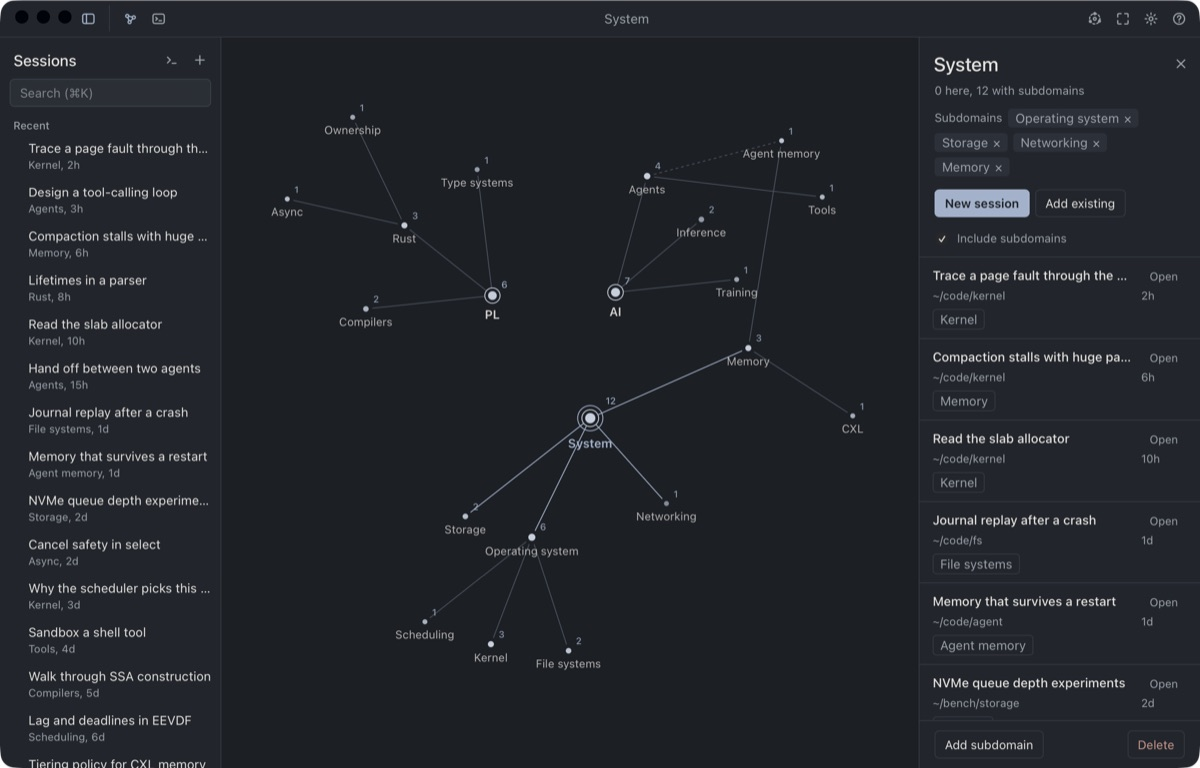
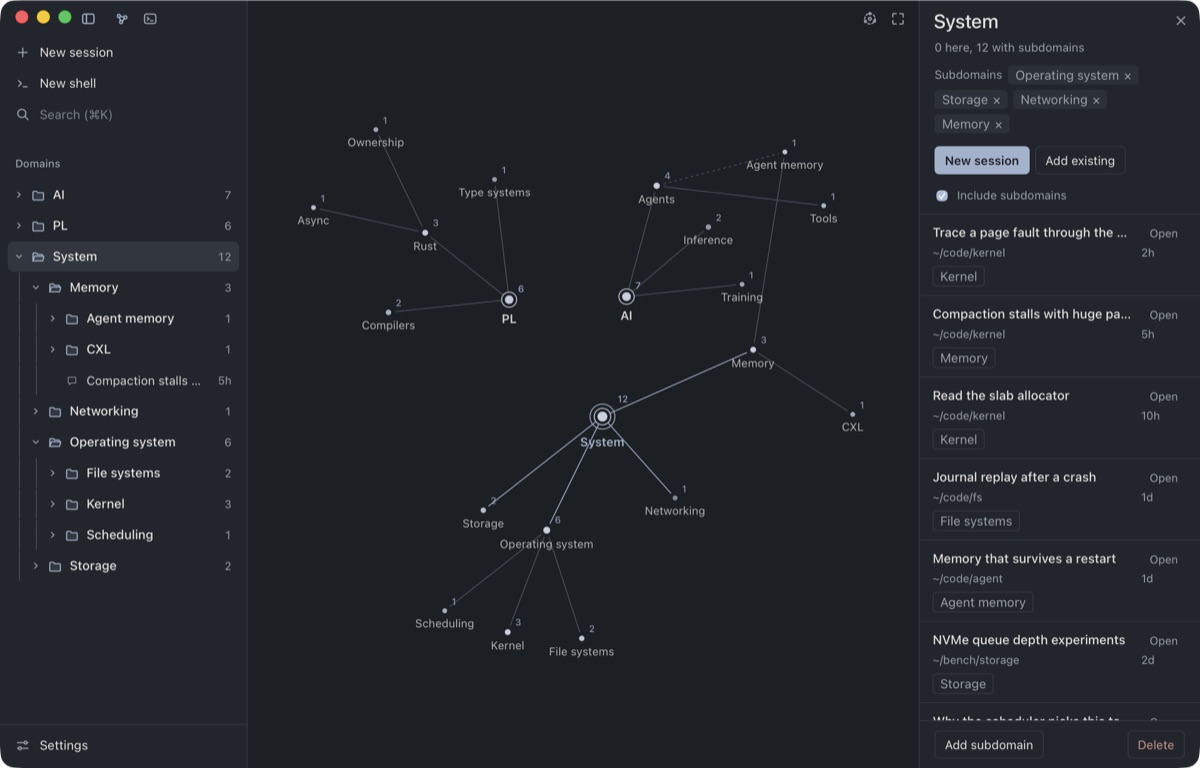
Rewrite the README and tighten the documents

diff --git a/docs/design.md b/docs/design.md
@@ -1,85 +1,82 @@
 # Design
 
-Deck organises Claude Code sessions by domain and runs them in terminal panes. [Architecture](architecture.md) says how it is built.
+Deck sorts Claude Code sessions by domain and runs them in terminal panes. [Architecture](architecture.md) says how it is built.
+
+## Principles
+
+- **The agent owns its sessions.** Deck keeps no copy of a session and adds no chat window. It stores only where each session belongs.
+- **Opt in.** A session appears once it is assigned to a domain, so the map holds only work worth keeping.
+- **One place for each rule.** The core decides everything. The interface sends requests and draws what comes back.
+- **Fit in, don't take over.** Panes run the login shell with its own environment and say they are Deck's own terminal. The look uses installed fonts, follows the system's light and dark, and every shortcut can move.
 
 ## Model
 
 | Record | Content |
 | --- | --- |
-| Domain | A stable ID, a name and a position on the map. |
-| Link | A parent domain and a subdomain. |
-| Assignment | A domain and a session key: the agent's name and the session's own ID. |
+| Domain | A stable ID, a name and a place on the map |
+| Link | A parent domain and a subdomain |
+| Assignment | A domain and a session, by agent and session ID |
 
-- **Sessions** stay with the agent. Deck keeps no copy, and shows a session only once it is assigned.
-- **Root domains** have no parent. There is no single root.
-- **Links** never form a loop. A domain may have several parents.
-- **Assignments.** A session may belong to several domains.
-- **Counts.** A domain counts the distinct sessions in it and in its subdomains.
-- **Deleting a domain** removes its links and assignments. A subdomain left without a parent moves up to the deleted domain's parents. Sessions are never deleted.
-- **Missing sessions.** An assigned session the agent no longer lists is marked missing and can be removed.
+- A domain may have several parents, and links never form a loop. Root domains have no parent, and there is no single root.
+- A session may belong to several domains. A domain counts the distinct sessions in it and its subdomains.
+- Deleting a domain removes its links and assignments, and moves its orphaned subdomains up to its parents. Sessions are never deleted.
+- A session the agent no longer lists is marked missing and can be removed.
 
 ## Window
 
-The map or the terminal fills the window below one top bar. The bar holds the window's own buttons, the session list toggle, the switch between map and terminal, the name of what is in view, the map's tools and Appearance.
+The session list runs down the left, and the map or the terminal fills the rest. As in Claude's and Codex's desktop apps there is no top bar: the window's buttons, the list toggle and the map/terminal switch sit together at the top left. The empty parts of the headers drag the window.
 
 | Part | Content |
 | --- | --- |
-| Map | Domains and their links, with pan and zoom. Size follows the session count, and colour follows recency over three months. The theme draws them. |
-| Domain panel | The selected domain: name, parents, subdomains and sessions. |
-| Session list | Open panes with their state, then recent assigned sessions. Search covers every assigned session. |
-| Terminal | Panes tiled in nested rows and columns. Other open panes keep running out of sight. |
+| Session list | New session, new shell and search; the open panes; then every domain as a folder holding its subdomains and its sessions, newest first. Both parts fold away. Settings sit at the foot. |
+| Map | Domains and links, with pan and zoom. Size follows the session count, colour follows recency over three months. |
+| Domain panel | The selected domain's name, parents, subdomains and sessions. |
+| Terminal | Panes tiled in rows and columns. Panes out of sight keep running. |
 
-- **Resizing.** The session list, the domain panel and the dividers between panes drag by their edges. The list can be hidden. Sizes are remembered.
-- **Top bar.** On macOS the window's three buttons sit at its left, as in other desktop apps. Its empty stretches drag and zoom the window.
+- **Domain tree.** A domain is a folder, empty while it has no session, and a session is a chat mark with its time. A running session shows its state instead. A domain with two parents appears under both. A search unfolds everything and keeps what matches. Folding is remembered.
+- **Sizes.** The list, the panel and the dividers between panes drag by their edges and are remembered.
 
 ## Map
 
-- **Editing.** Add, rename, move, link, unlink and delete domains.
-- **Import.** A folder path given as a name adds the folder and two levels inside it as domains.
-- **Arrange.** Lays the map out around one centre. Root domains gather on a small ring at the core, and each level of subdomains lies on a wider ring, so distance from the middle shows depth. Each root's branch keeps its own slice. Siblings sharing a subdomain sit side by side, and links draw related domains together while each keeps room for its name. The map glides to the new places and fits them on screen. One step undoes it.
-- **Fit.** Shows every domain at once.
-- **Reassigning.** A session dragged from the session list or the panel onto a domain is assigned there too.
+- **Editing.** Add, rename, move, link, unlink and delete domains. Shift-drag links a parent to a subdomain. A folder path given as a name imports the folder and two levels inside it.
+- **Arrange.** Root domains gather at the centre, and each level of subdomains lies on a wider ring, so distance shows depth. Each root keeps its own slice, and linked domains are drawn together. One step undoes it.
+- **Assigning.** A session dropped on a domain, on the map or in the list, joins it.
 
 ## Sessions
 
-- **New session.** Choose a domain, a folder and, optionally, a name. The name goes to Claude Code as `--name` and is written to the session once stored. The session is assigned at once. Claude Code stores a session at its first prompt, so one closed before that is dropped.
-- **Add existing.** A picker over the agent's whole history assigns past sessions to the selected domain.
-- **Titles.** Claude Code's own title, else the first prompt typed, else the first command run, such as `/login`.
-- **Renaming.** A double click on a session's row or its pane's title renames it. Deck writes the record Claude Code's `/rename` writes, so both show the name. A session not yet stored keeps the name until it is.
-- **State.** An open pane is active when it wrote output in the last three seconds, and quiet otherwise. It is ready when it fell quiet after output nobody saw: off screen, or with the window in the background. The terminal button in the top bar then carries a dot. Output in a pane's first five seconds is its own redraw and does not count.
-- **Reopening.** The panes open when Deck stops reopen at the next start, behind the map, tiled as they were. A session no longer listed, or a folder that is gone, is skipped.
+- **New session.** Choose a domain, a folder and an optional name, passed to Claude Code as `--name`. The session is assigned at once. Claude Code stores a session at its first prompt, so one closed before then is dropped.
+- **Add existing.** A picker over the agent's whole history.
+- **Titles.** Claude Code's own title, else the first prompt, else the first command, such as `/login`.
+- **Renaming.** A double click on a row or a pane's title. Deck writes the same record as `/rename`, so both agree.
+- **State.** A pane is active while it writes output and quiet after three seconds. It is ready when it fell quiet with output nobody saw; the terminal button then carries a dot.
+- **Reopening.** Open panes come back at the next start, tiled as they were.
 
 ## Terminal
 
-- **Panes.** A pane runs Claude Code on a session, or the user's login shell. Deck has no chat interface.
-- **Split.** Splitting a pane right or down opens a shell beside or below that pane alone, in the same folder, so panes tile in nested rows and columns. A double click on a divider shares the room evenly.
-- **Carrying.** A session from the list, or a pane by its header, drags into the terminal. Near a pane's edge it splits that pane on that side, and in the middle it takes the pane's place. An outline shows where it will land. Dropped on the map's empty space, a session opens in the terminal.
-- **Shell names.** A double click on a shell's title names it. The name is kept with the open panes.
-- **Closing.** A pane closes when its process exits, and closing a pane stops its process. One that fails within two seconds stays, so its output can be read. The session remains and can be reopened.
-- **Colours.** A terminal takes the theme's sixteen-colour palette for the mode in view, and changes with it. When Claude Code's own theme is of the other kind, light or dark, a pane started then runs its counterpart, for that run only.
-- **Shell.** A pane runs the login shell with the environment its profile sets, as a terminal would, and with a UTF-8 locale when the profile sets none.
-- **Fonts.** Deck bundles no typeface. The terminal uses the theme's monospace or the one chosen in Appearance. A prompt that draws icons needs a font that has them, such as a Nerd Font; the menu marks such fonts Icons. A Nerd Font's Mono variant fits each icon in one cell, and the plain variant lets it run into the space after it.
-- **Other clients.** Deck does not guard against a session being open elsewhere. The agent handles that.
+- **Panes** run Claude Code on a session, or the login shell. Splitting a pane opens a shell beside or below it, in the same folder.
+- **Carrying.** Drag a session or a pane's title into the terminal. Near a pane's edge it splits that pane; in the middle it replaces it.
+- **Closing.** A pane closes when its process exits. One that fails within two seconds stays open, so its output can be read.
+- **Colours.** Panes take the theme's sixteen-colour palette for the mode in view. On a light ground, text too faint to read is darkened, as VS Code does; on a dark ground, programs' colours show exactly. Programs that ask, such as Neovim, are told when Deck turns light or dark. Claude Code runs with the light or dark theme that matches.
+- **Environment.** A pane gets the login shell's environment, a UTF-8 locale if the profile sets none, and `TERM_PROGRAM=NoemaDeck`. It drops the variables of the terminal Deck was started from, which would make programs speak that terminal's dialect.
+- **Fonts.** Deck bundles no typeface. A prompt that draws icons needs a font that has them, such as a Nerd Font; the font menu marks these.
 
-## Appearance
+## Settings
 
-The Appearance sheet (⌘, or the sun in the top bar) changes the look at once, and the store keeps it. Fonts are chosen from menus of those installed, each name drawn in its own face, searchable, with a check by the one in use, as in Claude's settings.
+Settings open with ⌘, or from the foot of the list. A change shows at once, and the store keeps it.
 
-| Choice | Options |
+| Page | Content |
 | --- | --- |
-| Theme | **Noema**, the default, and **Galaxy**. [Themes](themes.md) says how one is made. |
-| Colour mode | Light, dark, or Auto, which follows the system. A theme with one mode keeps to it. |
-| Interface font | The theme's, or any installed family, from a menu. |
-| Terminal font | The theme's, or any installed family whose letters share one width, from a menu, with its size and line height. |
+| Appearance | Theme, colour mode (light, dark or follow the system) and interface font |
+| Terminal | Font, size and line height, with a preview |
+| Shortcuts | Every keyboard shortcut. Click a key, then press the new one. A key in use is refused, and Reset puts one back. |
+| About | Version, source and licence |
 
-- **Noema** takes its colours from the Noema Kit mark: a slate blue accent, paper and mist neutrals, and muted sage, ochre and clay for state. Its type is the system's. Its map is a graph in ink, after the mark's own: a domain is a dot, deeper for recent work and fading to mist over three months, and an empty domain is an open ring. A root domain wears a thin ring. A session running now adds a sage ring. Second-parent links are dashed. Pointing at a domain dims all but it and its neighbours.
-- **Galaxy** draws each domain as a star on a night sky. [Galaxy](../ui/themes/galaxy/README.md) describes it.
-- **Opening.** The page opens in the look of the last run, and then takes what the store holds.
+**Noema**, the default theme, takes its colours from the Noema Kit mark and draws the map as an ink graph: a dot per domain, deeper for recent work, an open ring when empty. **Galaxy** draws domains as stars on a night sky; [its README](../ui/themes/galaxy/README.md) describes it. [Themes](themes.md) says how to make one.
 
 ## Later
 
-- **More agents.** Codex and OpenCode.
-- **Themes from outside the app.**
-- **Domain prompts.** A prompt per domain, inherited by sessions started in its subdomains.
-- **Skills, system load and memory.**
-- **Session links.** Fork, reference and handoff relations.
+- More agents: Codex and OpenCode
+- Themes loaded from outside the app
+- A prompt per domain, inherited by its subdomains
+- Skills, system load and memory per domain
+- Links between sessions: fork, reference and handoff

diff --git a/README.md b/README.md
@@ -1,78 +1,85 @@
 <p align="center">
-  <img src="crates/noema-deck/icons/icon.png" width="128" alt="Noema Deck icon">
+  <img src="crates/noema-deck/icons/icon.png" width="112" alt="">
 </p>
 
 <h1 align="center">Noema Deck</h1>
 
-<p align="center">A desktop workbench that organises Claude Code sessions by domain.</p>
-
-![The map of domains, with the session list on the left and the System domain's panel on the right](docs/images/map.jpg)
-
 <p align="center">
-  <img src="docs/images/dark.jpg" width="49%" alt="The same window in the Noema theme's dark mode">
-  <img src="docs/images/galaxy.jpg" width="49%" alt="The same window in the Galaxy theme, with domains drawn as stars">
+  <b>A map for your Claude Code sessions.</b><br>
+  Sort them by domain, see what you work on, and run each one in a tiled terminal.
 </p>
 
-Deck is the first part of [Noema Kit](https://github.com/noema-kit), a set of tools for building an AI-native personal knowledge system.
+<p align="center">
+  <a href="https://github.com/noema-kit/noema-deck/releases/latest"><img src="https://img.shields.io/github/v/release/noema-kit/noema-deck?label=release" alt="Latest release"></a>
+  <img src="https://img.shields.io/badge/platform-macOS-lightgrey" alt="macOS">
+  <a href="LICENSE"><img src="https://img.shields.io/badge/licence-MIT-blue" alt="MIT licence"></a>
+</p>
 
-## Features
+<p align="center">
+  <a href="https://github.com/noema-kit/noema-deck/releases/latest">Download</a> ·
+  <a href="docs/design.md">Design</a> ·
+  <a href="docs/architecture.md">Architecture</a> ·
+  <a href="docs/themes.md">Themes</a>
+</p>
 
-- **Domains.** Group sessions by domain on a map. A domain can have subdomains and several parents, and a session can belong to several domains.
-- **Original sessions.** Deck manages the sessions Claude Code creates. It stores only assignments and keeps no copy.
-- **Opt-in.** A session appears once it is assigned to a domain. Start one in a domain, or add past ones from the history.
-- **Arrange.** One click lays the map out with root domains at the core and deeper subdomains farther out.
-- **Themes.** A quiet light and dark default in the Noema Kit's colours, and Galaxy, a night sky. Fonts, including the terminal's, are yours to choose.
-- **Terminal.** A session opens in a terminal pane that runs Claude Code. Panes split right or down and tile freely, and a pane can run a plain shell.
-- **Continuity.** Open panes reopen at the next start, tiled as they were, and a session that finished out of sight is marked ready.
-- **Command line.** The same program lists, opens, renames and assigns sessions from a shell.
+<picture>
+  <source media="(prefers-color-scheme: dark)" srcset="docs/images/dark.jpg">
+  <img src="docs/images/light.jpg" alt="Deck with the domain tree on the left, the map of domains in the middle and the System domain's sessions on the right">
+</picture>
 
-## Run
+## Why
 
-Download the macOS app from [Releases](https://github.com/noema-kit/noema-deck/releases). It is not notarised, so open it once, then choose **Open Anyway** in System Settings → Privacy & Security. Claude Code must be installed.
+Claude Code keeps every session, but as one flat history. Deck adds a single idea: **domains**. Put each session in the domains it belongs to, and the map shows what you work on, how the areas connect and where you were busy lately.
 
-To build from source, install Rust 1.95 and Claude Code.
+## Highlights
+
+- **Domain map.** Domains nest and may have several parents. Size shows how many sessions a domain holds, colour how recently you worked there. One click lays out the whole map by depth.
+- **Your real sessions.** Deck opens Claude Code's own sessions in place and stores only which domains they belong to. No copies, and no chat window of its own.
+- **Tiled terminal.** Run sessions and shells side by side. Drag one onto a pane to split it. Open panes come back where they were.
+- **File-tree sidebar.** Browse domains as folders, with running sessions marked.
+- **Made to fit.** A quiet light and dark theme, Galaxy for a night sky, any installed font, and shortcuts you can rebind.
+- **Scriptable.** The same program lists, opens, renames and assigns sessions from a shell.
+
+## Install
+
+Download the disk image from [Releases](https://github.com/noema-kit/noema-deck/releases/latest) and move Deck to Applications. It is not notarised, so open it once, then choose **Open Anyway** in System Settings → Privacy & Security. Deck needs [Claude Code](https://github.com/anthropics/claude-code).
+
+Or build it with Rust 1.95:
 
 ```sh
-cargo run -p noema-deck         # the desktop window
-cargo run -- serve              # the same interface at http://127.0.0.1:4270
-cargo run -- --help             # the commands
+cargo run -p noema-deck     # the desktop app
+cargo run -- serve          # the same interface at http://127.0.0.1:4270
+cargo run -- --help         # the command-line tool
 ```
 
-## Use
+## Get started
 
-| Action | How |
+1. **Add a domain.** Double-click the map. Typing a folder path instead imports the folder's tree.
+2. **Add sessions.** Start a **New session** in a domain, or bring in past ones with **Add existing**.
+3. **Work.** Click a session to open it. ⌘D splits the pane, ⌘1 and ⌘2 switch between map and terminal, and ⌘, opens Settings.
+
+## How it works
+
+- **Claude Code owns the sessions.** Deck reads its transcripts and runs `claude --resume`. It keeps only domains, links and assignments, in one local SQLite file.
+- **The core owns the rules.** A Rust core answers every request with a snapshot of the whole map. The desktop window and a local web server pass requests through unchanged, and the interface only draws.
+- **Nothing extra to install.** The interface is plain HTML and JavaScript with no build step. Panes run your login shell, and Deck uses your installed fonts.
+
+## Themes
+
+<img src="docs/images/galaxy.jpg" alt="Deck in the Galaxy theme, with domains drawn as stars">
+
+**Noema**, the default, takes its quiet palette from the Noema Kit mark. **Galaxy** draws domains as stars. A theme is a folder of colours and a map painter, described in [Themes](docs/themes.md).
+
+## Documentation
+
+| | |
 | --- | --- |
-| Add a domain | Double-click the map. A folder path imports its tree. |
-| See every domain | The arrange button in the top bar lays the map out, and the frame button fits it |
-| Move or link domains | Drag one. Shift-drag from a parent to a subdomain. |
-| Assign a session | Drag it from the list or the domain panel onto a domain |
-| Start a session | **New session** in the domain panel, or `+` in the session list. A name is optional. |
-| Add past sessions | **Add existing** in the domain panel |
-| Open a session | Click it, or drag it into the terminal: onto a pane's edge to split there, or onto its middle to replace it |
-| Move a pane | Drag its header onto another pane's edge or middle |
-| Open a shell | `>_` in the session list, or split a pane |
-| Rename a session or shell | Double-click its row or its pane's title |
-| Resize | Drag the edge of the session list or the domain panel, or a divider between panes |
-| Change the look | The sun in the top bar opens Appearance: theme, light or dark, and fonts |
+| [Design](docs/design.md) | What Deck does, and why |
+| [Architecture](docs/architecture.md) | How it is built |
+| [Themes](docs/themes.md) | How to make a theme |
+| [Development](docs/development.md) | Building, testing and releasing |
 
-| Key | Action |
-| --- | --- |
-| ⌘1, ⌘2 | Map, terminal |
-| ⌘B, ⌘K | Session list, search |
-| ⌘D, ⇧⌘D | Split the active pane right, down |
-| ⌘0 | Show every domain |
-| ⌘, | Appearance |
-
-Off macOS, the number keys take Ctrl and the letter keys take Ctrl+Shift.
-
-## Documents
-
-| Document | Content |
-| --- | --- |
-| [Design](docs/design.md) | What Deck does. |
-| [Themes](docs/themes.md) | How a theme is made. |
-| [Architecture](docs/architecture.md) | How it is built. |
-| [Development](docs/development.md) | Running, checking and conventions. |
+Deck is the first tool of [Noema Kit](https://github.com/noema-kit), a set of tools for an AI-native personal knowledge system.
 
 ## Licence
 

diff --git a/docs/architecture.md b/docs/architecture.md
@@ -21,7 +21,7 @@ flowchart LR
 | `noema-deck-core` | Everything Deck knows and does. No window, no arguments, no printing. |
 | `noema-deck-cli` | The commands, what they print, and a local server that gives the interface to a browser. |
 | `noema-deck` | The Tauri window. Given a command, it hands it to the CLI library, so one program is both the app and the command-line tool. |
-| `ui/` | Plain HTML, CSS and JavaScript with no build step. `app.js` sends requests and fills the lists, `map.js` runs the map and hands its drawing to the theme's painter, and `theme.js` and `settings.js` put on and change the look. Each theme is a folder in `ui/themes/`. |
+| `ui/` | Plain HTML, CSS and JavaScript with no build step. `app.js` sends requests and fills the lists, `map.js` runs the map and hands its drawing to the theme's painter, `theme.js` and `settings.js` put on and change the look, and `keys.js` holds the shortcuts. Each theme is a folder in `ui/themes/`. |
 
 ## Core modules
 
@@ -55,9 +55,9 @@ Every rule lives in the core: a refused link, a domain's count, which sessions a
 
 ## Interface
 
-- **No state of its own.** Domains and sessions come only from snapshots. The page keeps layout choices alone, such as panel widths, in its local storage. The panes to reopen and their layout go to the store, so they follow the store and not the web view.
+- **Local storage** holds only layout choices, such as panel widths and folded domains. The panes to reopen, the appearance and the shortcuts go to the store, so they follow the store and not the web view.
 - **Look.** The appearance comes in the snapshot and is changed by a request, like everything else. `theme.js` loads the theme's style sheet and painter, sets the mode and typefaces on the page, and restyles the map and every terminal. `boot.js` runs before the page is drawn and puts on the last run's look from local storage, so the window does not flash the default.
-- **Title bar.** The window's title bar is an overlay, with its buttons centred in the page's top bar. The page marks the regions that drag and zoom the window, and one capability file grants it those two calls.
+- **Title bar.** The window's title bar is an overlay, with its buttons centred on the page's top row. The page marks the regions that drag and zoom the window. One capability file grants it those two calls and the app's version, for Settings.
 
 ## Map drawing
 
@@ -76,7 +76,7 @@ One SQLite file in the per-user application data directory. Nothing from a sessi
 | `domain` | `id`, `name`, `x`, `y` |
 | `link` | `parent`, `child` |
 | `assignment` | `domain`, `agent`, `session` |
-| `setting` | `name`, `value`: the last folder, the panes to reopen with their layout tree, and the appearance |
+| `setting` | `name`, `value`: the last folder, the panes to reopen with their layout tree, the appearance, and the shortcuts moved to other keys |
 
 `PRAGMA user_version` counts the upgrade steps a store has had. Opening runs the ones it lacks, and refuses a store from a newer Deck.
 
@@ -86,10 +86,10 @@ A pane runs one command on a pseudoterminal: Claude Code on a session, or the us
 
 - **Two threads per pane.** One copies what the process writes. The other waits for the process to end.
 - **Ending.** A pane ends when its terminal closes, or shortly after its process exits if something it started holds the terminal open.
-- **Many panes.** Any number can run. The interface shows one or two and keeps reading the rest, which is how it knows a session is active.
+- **Many panes.** Any number can run. The interface keeps reading those out of sight too, which is how it knows a session is active.
 - **Reading waits.** The interface asks for output and the answer comes when there is some, or after twenty seconds.
-- **Environment.** A desktop app starts without a terminal's `PATH`. Deck asks the login shell for its environment once, at startup, and runs every pane with it.
-- **Drawing.** Each terminal is xterm.js drawing through WebGL, and through plain elements when WebGL is unavailable.
+- **Environment.** A desktop app starts without a terminal's `PATH`. Deck asks the login shell for its environment once, at startup, and runs every pane with it, minus the variables of whatever terminal started Deck, and with `TERM=xterm-256color`, `COLORTERM=truecolor` and `TERM_PROGRAM=NoemaDeck`.
+- **Drawing.** Each terminal is xterm.js drawing through WebGL, and through plain elements when WebGL is unavailable. The page answers a program's question about light and dark (mode 2031) itself.
 
 ## Local server
 

diff --git a/docs/themes.md b/docs/themes.md
@@ -1,6 +1,6 @@
 # Themes
 
-A theme sets Deck's colours and typefaces and decides how the map is drawn. Deck ships two: **Noema**, the default, in light and dark, and **Galaxy**, a night sky. [Design](design.md#appearance) says how a person chooses one.
+A theme sets Deck's colours and typefaces and decides how the map is drawn. Deck ships two: **Noema**, the default, in light and dark, and **Galaxy**, a night sky. [Design](design.md#settings) says how a person chooses one.
 
 ## A theme's folder
 
@@ -16,7 +16,7 @@ Each theme is a folder under `ui/themes/`, named by its ID, and listed in `ui/th
 
 | Field | Content |
 | --- | --- |
-| `name`, `description` | Shown in the Appearance sheet. |
+| `name`, `description` | Shown in Settings, under Appearance. |
 | `modes` | `["light", "dark"]`, or one of them. A theme with one mode keeps to it whatever the person chose. |
 | `swatch` | Per mode, four colours for the theme's card: map, plate, a domain and the accent. |
 | `terminal` | Per mode, an xterm.js theme: `background`, `foreground`, `cursor`, `selectionBackground` and the sixteen ANSI colours. |
@@ -61,6 +61,6 @@ A **scene** is one frame: `ctx`, `width`, `height`, `ratio`, `view`, `ink` (the 
 
 1. Copy `ui/themes/noema` to a new folder and add its name to `themes.json`.
 2. Change the manifest, the tokens and the painter.
-3. Choose it in the Appearance sheet (⌘,).
+3. Choose it in Settings, under Appearance (⌘,).
 
 Themes are part of the interface and run with its rights. Loading themes from outside the app is planned.

diff --git a/docs/development.md b/docs/development.md
@@ -27,7 +27,7 @@ cargo test --workspace
 scripts/selftest.sh
 ```
 
-The self-test opens the real window and drives the map, the session list, terminal panes, a new session, an import and the Appearance sheet from inside the page. It uses a fixture store, fixture sessions and a stand-in for Claude Code, so it reads and changes nothing of yours.
+The self-test opens the real window and drives the map, the session list, terminal panes, a new session, an import, Settings and shortcuts from inside the page. It uses a fixture store, fixture sessions and a stand-in for Claude Code, so it reads and changes nothing of yours.
 
 ## Release
 
